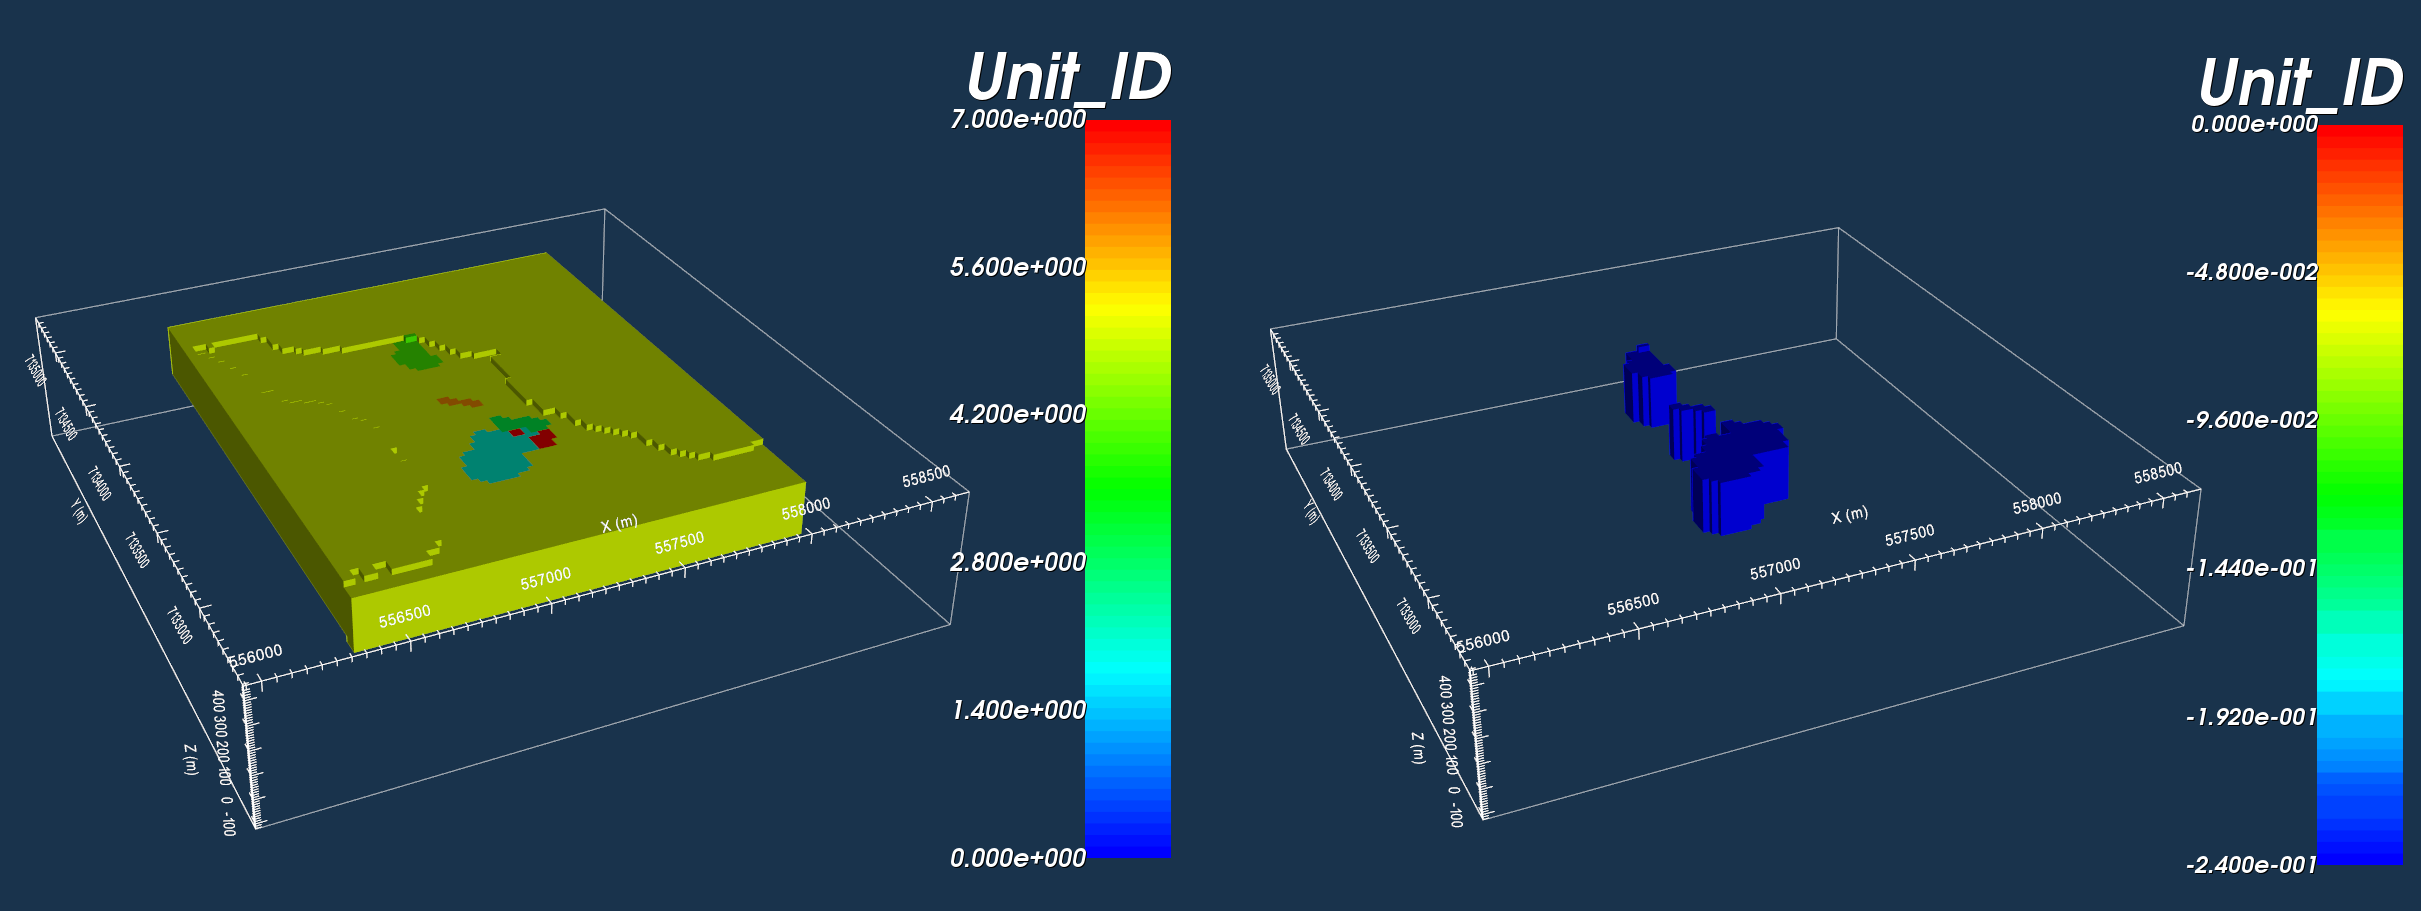
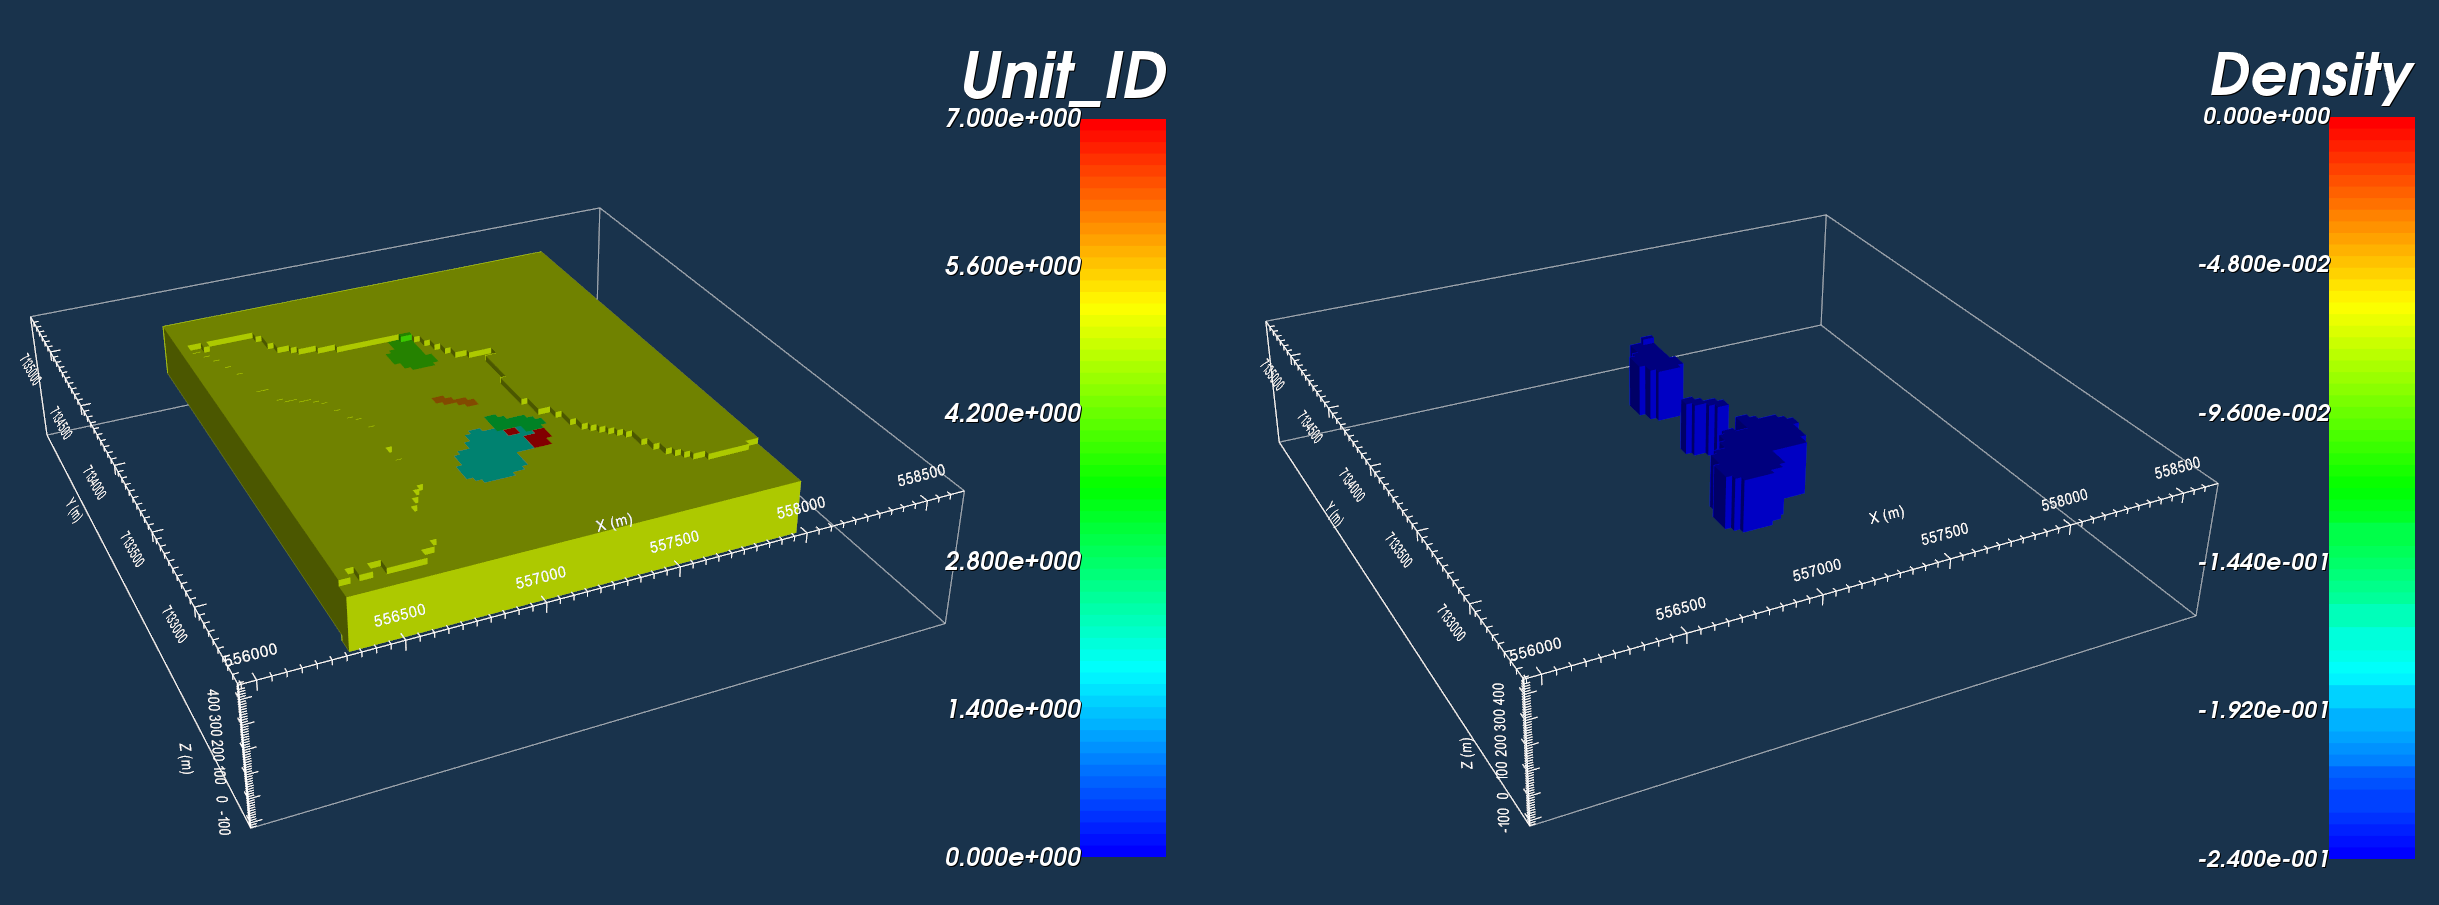
A to Z Gravity FWD final draft complete

diff --git a/content/AtoZ/gravity/gravityForward.rst b/content/AtoZ/gravity/gravityForward.rst
@@ -32,7 +32,7 @@ In addition to geophysical data, you may have access to topographical informatio
     - :ref:`Import the topography data <importTopo>` (3D GIF format)
     - :ref:`Import the geology image and link to topography <importImage>` (Image is plane view)
     - :ref:`Create a legend for the geological units in the image <objectGeneralImageCreateLegend>`
-    - :ref:`Import field observed gravity anomaly data <importGravData>` (GIF format)
+    - :ref:`Import field observed gravity anomaly data <importGravData>` (GIF format with data in mGal)
 
 .. tip:: - Use **Edit** |rarr| **Rename** to change what objects in GIFtools are called
          - For any data object, :ref:`edit the data headers <objectDataHeaders>`. We set the observed gravity data to "Gravity (mGal)"
@@ -40,7 +40,7 @@ In addition to geophysical data, you may have access to topographical informatio
 
 .. figure:: images/TopoGeologyImage.png
     :align: center
-    :figwidth: 100%
+    :width: 700
 
     Topography imaged in VTK (left). Plan-view image for surface geological mapping (middle). Gravity anomaly data in mGal (right).
 
@@ -83,7 +83,7 @@ Approach 2: Custom locations
 
 .. figure:: images/SurveyCompare.png
     :align: center
-    :figwidth: 100%
+    :width: 700
 
     Data location from observed data file (left). Data locations for synthetic survey (right).
 
@@ -101,7 +101,7 @@ To predict field data, we must define the domain by creating a mesh. GIFtools ca
 
 .. figure:: images/MeshFromSurvey.png
     :align: center
-    :figwidth: 80%
+    :width: 550
 
     Mesh created from survey and viewed in VTK. Data locations from the survey have been imported.
 
@@ -139,31 +139,57 @@ Now that we have topography, a mesh, and an active cells model, we can create a 
 
     - :ref:`Start modelBuilder <createModelBuilder>`
     - :ref:`Create geology model from plan-view image <createGeoModelImage>` (Use a thickness of 200 m)
-    - :ref:`Set physical properties model <propModelFromGeoModel>` for the newly created GEOmodel (The approximate difference in density for the kimberlites and till relative to the host is found :ref:`here <AtoZ_TKCbackground>`)
+    - :ref:`Set physical properties model <propModelFromGeoModel>` for the newly created GEOmodel (The approximate difference in density for the kimberlites and till relative to the host is found :ref:`here <AtoZ_TKCbackground>`). **Units should be g/cc.**
     - Set I/O headers to define which information in the geological model is the physical property
+    - Create GIF model from the GEO model you created using **Geology Model** |rarr| **Create Model** |rarr| **From Property Values**
 
 .. figure:: images/GeologyModel.png
     :align: center
-    :figwidth: 100%
+    :width: 700
 
-    Geological model created with each colour representing a different units (left). Difference in density from host in g/cc (right).
-
-
-Set Up the Forward Modeling
----------------------------
-
-We now have all the objects we need to create the files for the forward model. The next step is outputting the files which are read by the fortran code.
+    Geological model created with each colour representing a different units (left). Density contrast in g/cc relative to host (right).
 
 
-    - Create Grav3D forward model through :ref:`create forward modeling <createForward>`.
-    -
+Forward Model the Data
+----------------------
+
+We now have all the objects we need to create the files for the forward model and run the fortran model. This is accomplished by carrying out the following steps:
+
+    - Create Grav3D forward model through :ref:`create forward modeling <createForward>`
+    - Select the forward modeling object and :ref:`edit options <objectFwdEditOptions>` to link
+        - GIF Model
+        - Data locations
+        - Topography
+    - :ref:`Write files <objectFwdWriteAll>`
+    - :ref:`Run GZFOR3D <objectFwdRun>`
 
 
+Load Predicted Data and Compare Against Observed Data
+-----------------------------------------------------
+
+Here, we compare the observed data to the predicted data from our forward model. We will also show how the difference between both datasets can be computed and plotted.
+
+    - :ref:`Load data <objectFwdLoadAll>`
+    - Using :ref:`add data from another object <objectCombineData>`, add the observed data to the predicted gravity data
+    - Using :ref:`column calculator <objectColumnCalculator>`, subtract the predicted data from the observed data
+    - :ref:`View the data <viewData>` (observed, predicted and difference) from the final data object you created
+
+.. figure:: images/CompareData.png
+    :align: center
+    :width: 700
+
+    Observed data (left). Predicted data (middle). Observed - predicted (right).
 
 
+.. tip:: :ref:`Edit data headers <objectDataHeaders>` to avoid confusion between predicted and observed data.
 
+Results
+-------
 
-
+    - Our synthetic model produces gravity anomalies of similar size and character.
+    - The northern portion of the largest anomaly does not match between predicted and observed gravity data
+    - The predicted data over-estimates the maximum anomaly amplitude
+    - Our synthetic model explains the data, but the margins of various kimberlite facies and their density distributions remain unresolved.
 
 
 
